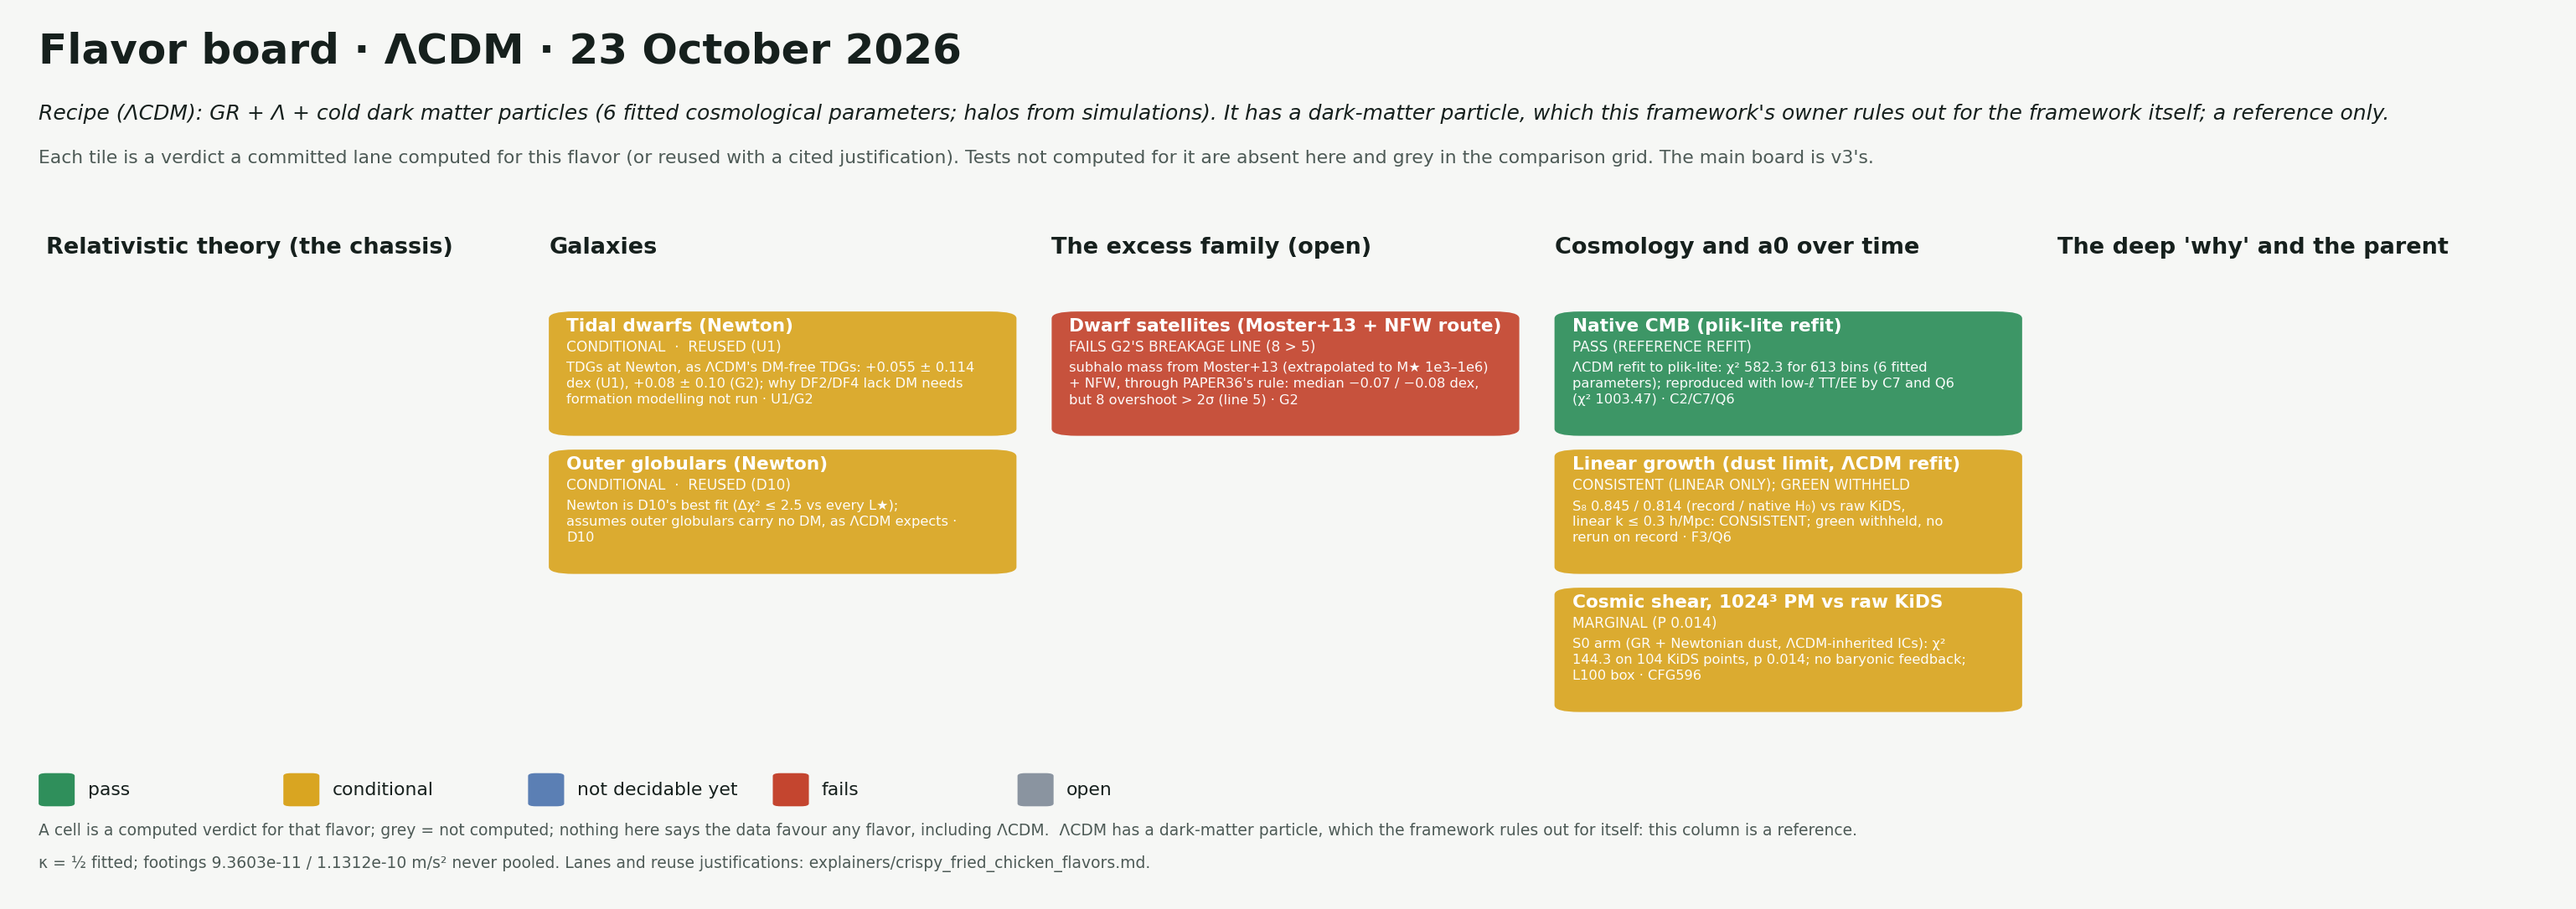
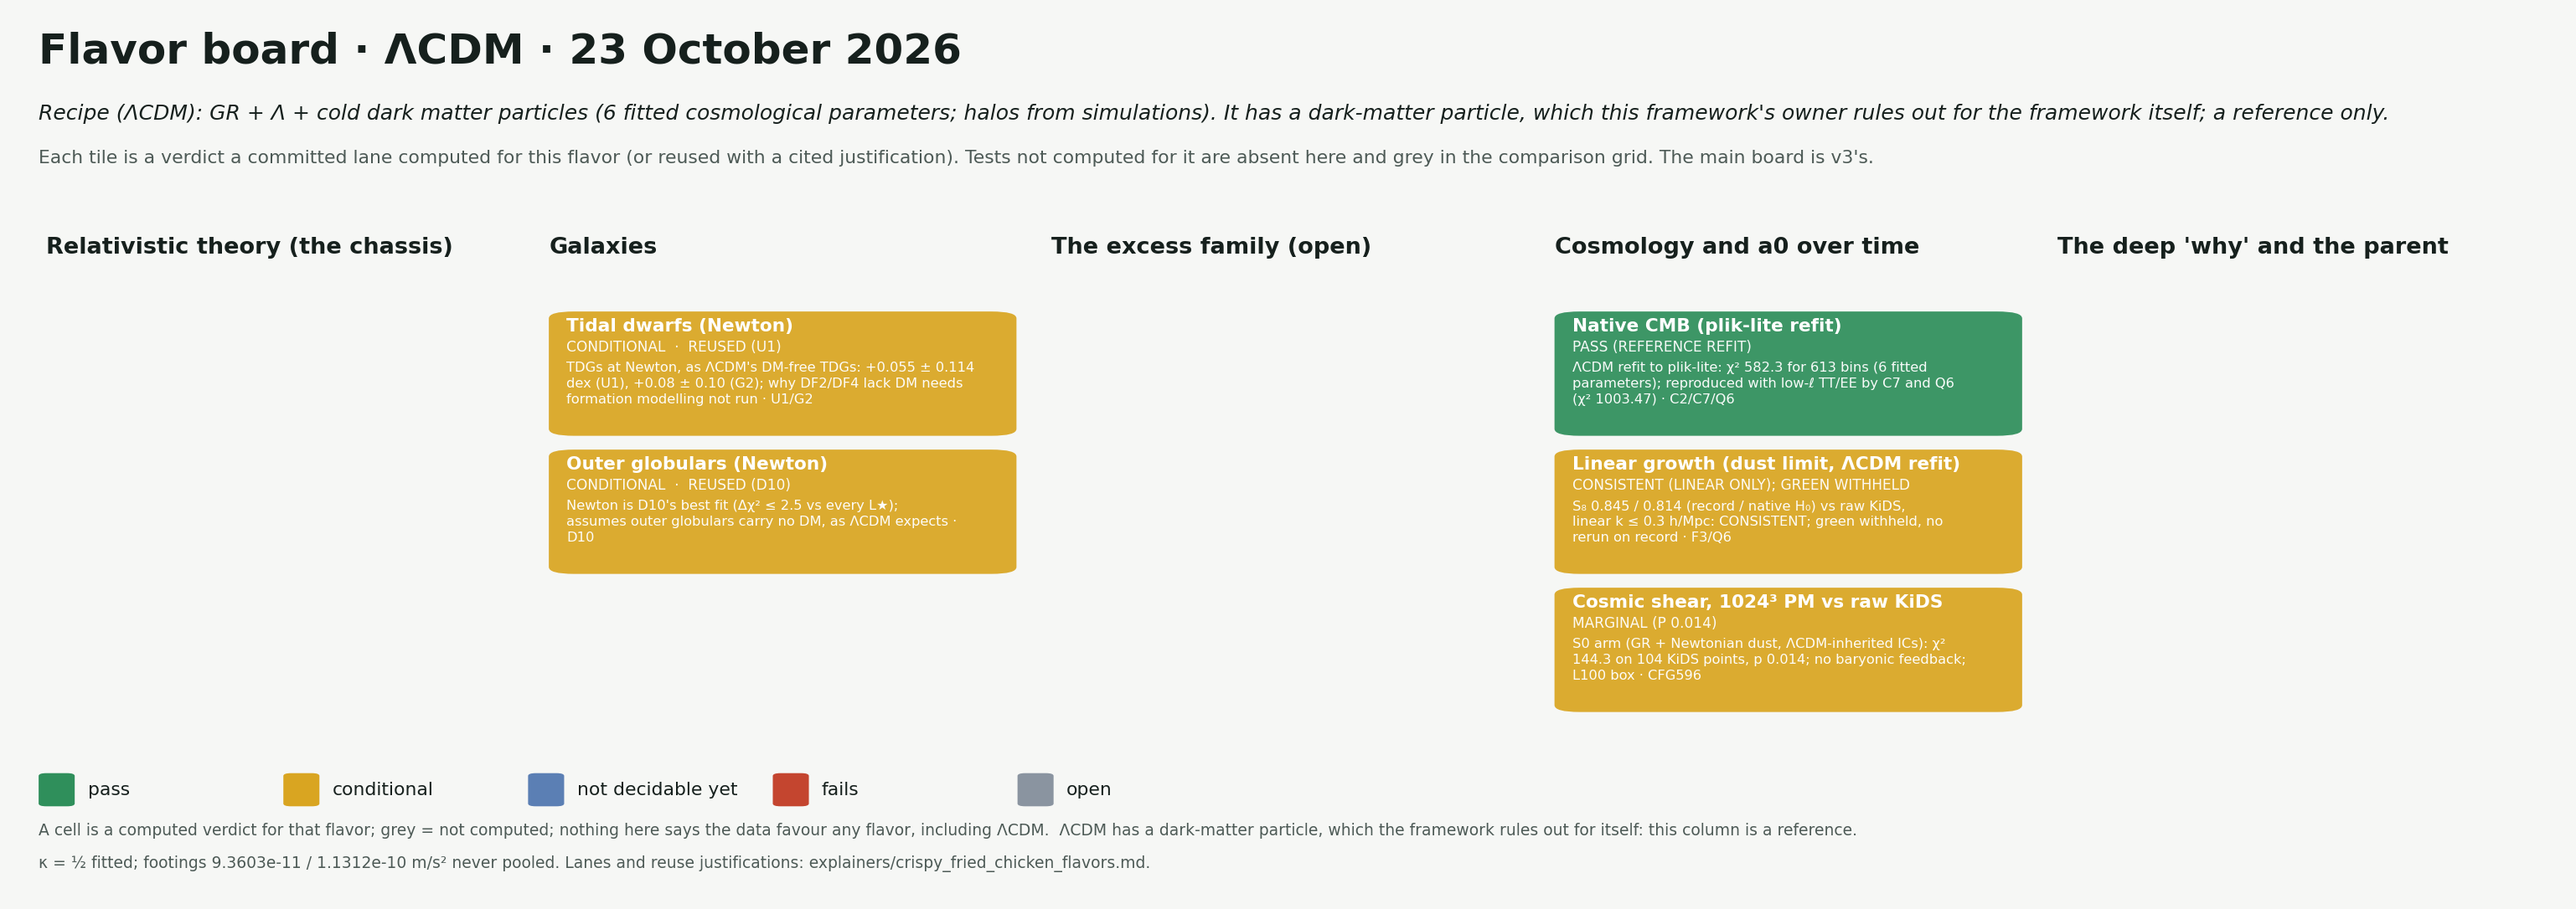
Flavor boards: coordinator override - LCDM dwarf satellites now GREY. G2's Moster+NFW route is PAPER36 eq. 1 (M_dark = M_ph + f_ex(1 - f_b) M_NFW, G2 README L45), the framework's phantom plus part of an NFW halo scored under the framework's law, not LCDM's prediction (Newtonian dynamics in a tidally

Changed region(s): [[0.4059, 0.3343, 0.5932, 0.4862]]

diff --git a/explainers/make_flavor_boards.py b/explainers/make_flavor_boards.py
@@ -103,7 +103,21 @@ LCDM_GREY_ROWS = {"Rotation curves (SPARC RAR)", "Local a0 from MeerKAT", "Galax
                   "MW outer slope (Gaia)", "Central ellipticals (SLUGGS)", "High-z on halo-free inputs",
                   "CRISTAL z~5 / ALESS 122.1", "Coma ultra-diffuse galaxies", "Cluster cores (eRASS1 × KiDS)",
                   "Isolated-galaxy lensing, inner", "Isolated-galaxy lensing, all radii", "Red (early-type) lenses",
-                  "ALMA U4 (6 Nov), GS4 (28 Nov)", "a0(z): native band vs a0 ~ H(z)", "Why kappa = 1/2"}
+                  "ALMA U4 (6 Nov), GS4 (28 Nov)", "a0(z): native band vs a0 ~ H(z)", "Why kappa = 1/2",
+                  # G2's Moster+NFW route is PAPER36 eq. 1 (M_dark = M_ph + f_ex(1 - f_b) M_NFW, G2 README L45) scored
+                  # under the framework's law; ΛCDM's own satellite prediction (Newtonian dynamics in a tidally evolved
+                  # subhalo) was never computed
+                  "Dwarf satellites (MW / M31)"}
+# Lanes allowed to carry a ΛCDM (or GR) arm, with the file:line where that arm is stated. Any other lane registered for
+# 'lcdm' is refused; a ΛCDM cell may reuse only the Newtonian limit, never a framework-law flavor.
+LCDM_ARMS = {
+    "C2": "covariant_push_2026_10_22/C2_aest_cosmology/README.md:L172 (ΛCDM refit to plik-lite)",
+    "C7": "covariant_push_2026_10_22/C7_aest_class/README.md:L161 (the same ΛCDM refit, pristine CLASS)",
+    "Q6": "rebuild_2026_10_22/Q6_v3_class/README.md:L21, L131 (ΛCDM refit; DUST reproduces ΛCDM)",
+    "F3": "rebuild_2026_10_22/F3_growth_audit/README.md:L25, L75 (GR + dust on the ΛCDM refit)",
+    "CFG596": "campaign_fresh_gravity/CFG596_lean_pm_1024/README.md:L116-L121, L141 (S0 arm: GR + Newtonian dust, "
+              "ΛCDM-inherited ICs and background)",
+}
 
 
 def row_of(name):
@@ -151,7 +165,7 @@ L("D7d", {"canonical"}, DP + "D7d_screened_q2/README.md:L1-L6 (the stiffened DSF
 L("D6", {"canonical"}, DP + "D6_u_mechanism/README.md:L1-L8")
 L("P1", {"canonical"}, R + "P1_dwarf_chemistry/README.md:L1-L6 (E6's catchment supply)")
 L("G1", {"canonical"}, TV3 + ":L67 (the old engine's growth excess)")
-L("G2", {"canonical", "lcdm"}, R + "G2_preinfall_retention/README.md:L1-L23 (PAPER36's rule; L91 ΛCDM-processed route)")
+L("G2", {"canonical"}, R + "G2_preinfall_retention/README.md:L1-L23 (PAPER36's rule)")
 L("CFG596", {"canonical", "lcdm"}, CF + "CFG596_lean_pm_1024/README.md:L116-L142 (F arm = settling rules; S0 arm = "
   "GR + Newtonian dust with ΛCDM-inherited ICs and background)")
 L("F1", {"v3", "canonical"}, R + "F1_cluster_cores/README.md:L59-L75 (addendum: the record's settled c* = 0.40)")
@@ -241,7 +255,6 @@ V("F1", "v3", "Cluster cores (eRASS1 × KiDS)", "FAIL", TV3 + ":L66")
 V("C2", "lcdm", "Native CMB", "PASS", CP + "C2_aest_cosmology/README.md:L172")
 V("F3", "lcdm", "Linear growth", "PASS", R + "F3_growth_audit/README.md:L8, L75")
 V("CFG596", "lcdm", "Cosmic shear, 1024³ PM vs raw KiDS", "COND", CF + "CFG596_lean_pm_1024/README.md:L131, L141-L142")
-V("G2", "lcdm", "Dwarf satellites (MW / M31)", "FAIL", R + "G2_preinfall_retention/README.md:L20-L23, L91")
 V("U1", "newton", "Tidal dwarfs, NGC 1052-DF2/DF4", "PASS", R + "U1_v3_dust_content/README.md:L135")
 V("D10", "newton", "Outer globular clusters", "COND", DP + "D10_native_Lstar/README.md:L18, L21")
 
@@ -471,9 +484,6 @@ CELLS = [
     C("lcdm", 3, "Cosmic shear, 1024³ PM vs raw KiDS", "COND",
       "S0 arm (GR + Newtonian dust, ΛCDM-inherited ICs): χ² 144.3 on 104 KiDS points, p 0.014; no baryonic feedback; "
       "L100 box", ["CFG596"], lab="marginal (p 0.014)"),
-    C("lcdm", 2, "Dwarf satellites (Moster+13 + NFW route)", "FAIL",
-      "subhalo mass from Moster+13 (extrapolated to M★ 1e3–1e6) + NFW, through PAPER36's rule: median −0.07 / −0.08 "
-      "dex, but 8 overshoot > 2σ (line 5)", ["G2"], lab="fails G2's breakage line (8 > 5)"),
     C("lcdm", 1, "Tidal dwarfs (Newton)", "COND",
       "TDGs at Newton, as ΛCDM's DM-free TDGs: +0.055 ± 0.114 dex (U1), +0.08 ± 0.10 (G2); why DF2/DF4 lack DM needs "
       "formation modelling not run", ["U1", "G2"], comp="newton"),
@@ -488,8 +498,9 @@ def all_cells(cells):
     return v3_cells() + cells
 
 
-def check(cells, reuse=None, verified=None, lanes=None, verdicts=None):
+def check(cells, reuse=None, verified=None, lanes=None, verdicts=None, arms=None):
     reuse = REUSE if reuse is None else reuse
+    arms = LCDM_ARMS if arms is None else arms
     verified = VERIFIED_GREEN_F if verified is None else verified
     lanes = LANES if lanes is None else lanes
     verdicts = VERDICTS if verdicts is None else verdicts
@@ -498,6 +509,9 @@ def check(cells, reuse=None, verified=None, lanes=None, verdicts=None):
     if main:
         errs.append(f"the main v3 board's own guard fails: {main[0]}")
     v3_main = {t["name"]: (None if t["st"] == "STALE" else t["st"]) for t in msb.TILES}
+    for ln, rec in lanes.items():
+        if "lcdm" in rec["flavors"] and not FILE_LINE.search(arms.get(ln, "")):
+            errs.append(f"lane {ln} registered for ΛCDM without a cited ΛCDM/GR arm (LCDM_ARMS)")
     seen = set()
     for c in all_cells(cells):
         f, row, st = c["flavor"], c["row"], c["st"]
@@ -546,6 +560,9 @@ def check(cells, reuse=None, verified=None, lanes=None, verdicts=None):
                 errs.append(f"green without verified evidence for {f}: {row}")
         if f == "plain_mond" and row in COSMO_ROWS:
             errs.append(f"plain MOND has no cosmology, so this row must stay grey: {row}")
+        if f == "lcdm" and comp not in {"lcdm"} | PSEUDO:
+            errs.append(f"ΛCDM cell reused from a framework-law lane ({comp}, {ev}); only the Newtonian limit may be "
+                        f"reused: {row}")
         if f == "lcdm" and row in LCDM_GREY_ROWS:
             errs.append(f"ΛCDM row needs modelling the record never ran; it must stay grey: {row}")
     for (f, row), vg in verified.items():
@@ -732,17 +749,28 @@ def broken_cases():
     def b14(c, r, v, l, d):  # an OPEN cell where the lane's verdict is a fail
         _cell(c, "v4", "Cluster cores (eRASS1 × KiDS)")["st"] = "OPEN"
 
-    def b15(c, r, v, l, d):  # ΛCDM coloured on a row that needs galaxy-formation modelling (with a fake REUSE)
-        c.append(C("lcdm", 1, "Local a0 from MeerKAT", "PASS", "halo fits", ["P4"], comp="v3"))
-        r[("lcdm", "Local a0 from MeerKAT")] = ("v3", "P4", "P4 README L17")
-        v[("lcdm", "Local a0 from MeerKAT")] = ("P4", "6c0249a8bc", "rerun")
-        d[("P4", "v3", "Local a0 from MeerKAT")] = ("PASS", "P4 README L17")
+    def b15(c, r, v, l, d):  # ΛCDM coloured on a galaxy-formation row by a lane with a ΛCDM arm (verdict faked)
+        c.append(C("lcdm", 1, "Local a0 from MeerKAT", "PASS", "halo fits", ["C2"]))
+        v[("lcdm", "Local a0 from MeerKAT")] = ("C2", "5e93769089", "rerun")
+        d[("C2", "lcdm", "Local a0 from MeerKAT")] = ("PASS", "C2 README L172")
 
     def b16(c, r, v, l, d):  # a ΛCDM green with no verification (the withheld linear growth turned green)
         _cell(c, "lcdm", "Linear growth")["st"] = "PASS"
 
     def b17(c, r, v, l, d):  # a verdict citation with no file:line
         d[("H2", "v4", "Cluster cores (eRASS1 × KiDS)")] = ("FAIL", "somewhere")
+
+    def b18(c, r, v, l, d):  # ΛCDM satellites from G2's PAPER36 route (framework law), with a cited REUSE entry
+        c.append(C("lcdm", 2, "Dwarf satellites (Moster+13 + NFW route)", "FAIL", "PAPER36 eq. 1", ["G2"],
+                   comp="canonical"))
+        r[("lcdm", "Dwarf satellites (MW / M31)")] = ("canonical", "G2", "G2 README L91")
+
+    def b19(c, r, v, l, d):  # ΛCDM reuses a framework-law verdict on a row not forced grey (only the new guard bites)
+        c.append(C("lcdm", 2, "Dwarf cold supply (chemistry)", "COND", "borrowed", ["E6"], comp="canonical"))
+        r[("lcdm", "Dwarf cold supply (chemistry)")] = ("canonical", "E6", "E6 README L1")
+
+    def b20(c, r, v, l, d):  # G2 registered as computing ΛCDM directly, with no cited ΛCDM arm
+        l["G2"] = dict(flavors={"canonical", "lcdm"}, where="G2 README L91")
 
     return [("plain-MOND reuse with its REUSE entry removed", b1), ("REUSE justification without file:line", b2),
             ("v4 borrows a v3 verdict without REUSE", b3), ("v4 borrows a v3 lane as if it computed v4", b4),
@@ -752,7 +780,9 @@ def broken_cases():
             ("plain MOND given a cosmology verdict", b11), ("lane registry lacks the flavor", b12),
             ("canonical green the earlier board never drew", b13), ("OPEN where the lane says fails", b14),
             ("ΛCDM coloured on a galaxy-formation row", b15), ("ΛCDM green with no verification", b16),
-            ("verdict citation without file:line", b17)]
+            ("verdict citation without file:line", b17),
+            ("ΛCDM satellites from G2's framework-law route", b18),
+            ("ΛCDM reuse of a framework-law verdict", b19), ("lane registered for ΛCDM without a ΛCDM arm", b20)]
 
 
 def selftest():

diff --git a/explainers/crispy_fried_chicken_flavors.md b/explainers/crispy_fried_chicken_flavors.md
@@ -26,7 +26,7 @@ Boards: [v4](img/status_board_v4.png) · [canonical rules](img/status_board_cano
 - **Greens need verification.** A green needs a `VERIFIED_GREEN_F` entry: the lane, its result commit, and a rerun or an independent reproduction. The canonical rules are the exception: they keep the greens that the 23 October afternoon board already drew.
 - **Some rows stay grey by rule.** Plain MOND has no cosmology, so its cosmology rows stay grey. ΛCDM rows that would need galaxy-formation, feedback or halo modelling the record never ran stay grey; they are never filled from literature claims.
 - **The v3 column is the main board.** The main generator's own check must still pass.
-- **Checks.** `--selftest` runs 17 broken cases, and every one is caught. They cover reuse, cross-flavor borrowing, unjustified ΛCDM cells and greens without evidence. `--mutate` strips one reuse justification, and the checks must fail.
+- **Checks.** `--selftest` runs 20 broken cases, and every one is caught. They cover reuse, cross-flavor borrowing, unjustified ΛCDM cells (including a ΛCDM cell reused from a framework-law lane) and greens without evidence. `--mutate` strips one reuse justification, and the checks must fail.
 
 ## Counts
 
@@ -38,7 +38,7 @@ The grid has 50 rows.
 | v4 | 1 | 1 | 6 | 0 | 1 | 41 |
 | canonical rules | 6 | 5 | 9 | 7 | 8 | 15 |
 | plain MOND | 2 | 3 | 8 | 4 | 2 | 31 |
-| ΛCDM | 1 | 4 | 1 | 0 | 0 | 44 |
+| ΛCDM | 1 | 4 | 0 | 0 | 0 | 45 |
 
 ## v4
 
@@ -133,7 +133,6 @@ The grid has 50 rows.
 | Native CMB (plik-lite refit) | 🟩 pass — pass (reference refit) | ΛCDM refit to plik-lite: χ² 582.3 for 613 bins (6 fitted parameters); reproduced with low-ℓ TT/EE by C7 and Q6 (χ² 1003.47) | C2, C7, Q6 |
 | Linear growth (dust limit, ΛCDM refit) | 🟨 conditional — consistent (linear only); green withheld | S₈ 0.845 / 0.814 (record / native H₀) vs raw KiDS, linear k ≤ 0.3 h/Mpc: CONSISTENT; green withheld, no rerun on record | F3, Q6 |
 | Cosmic shear, 1024³ PM vs raw KiDS | 🟨 conditional — marginal (p 0.014) | S0 arm (GR + Newtonian dust, ΛCDM-inherited ICs): χ² 144.3 on 104 KiDS points, p 0.014; no baryonic feedback; L100 box | CFG596 |
-| Dwarf satellites (Moster+13 + NFW route) | 🟥 fails — fails G2's breakage line (8 > 5) | subhalo mass from Moster+13 (extrapolated to M★ 1e3–1e6) + NFW, through PAPER36's rule: median −0.07 / −0.08 dex, but 8 overshoot > 2σ (line 5) | G2 |
 | Tidal dwarfs (Newton) | 🟨 conditional | TDGs at Newton, as ΛCDM's DM-free TDGs: +0.055 ± 0.114 dex (U1), +0.08 ± 0.10 (G2); why DF2/DF4 lack DM needs formation modelling not run | U1, G2 (reused from newton: U1) |
 | Outer globulars (Newton) | 🟨 conditional | Newton is D10's best fit (Δχ² ≤ 2.5 vs every L★); assumes outer globulars carry no DM, as ΛCDM expects | D10 (reused from newton: D10) |
 
@@ -179,7 +178,8 @@ The grid has 50 rows.
   - CFG516 used an NFW halo for the MW's K_z only as an ungraded reference: K_z,1.1 75.2 against the measured 66.4 ± 2.2 (CFG516 README L71-L75).
   - Older ΛCDM controls exist on other samples and statistics: CFG23 (KiDS NFW halos, χ² 173.7), CFG67 (KiDS early/late split, χ² 6.5 / 7), CFG79 / CFG84 (X-ray ellipticals) and CFG86 (SLACS). They are not mapped onto these rows, because their data are not the rows' data.
 - **ΛCDM, tidal dwarfs and outer globulars.** These are drawn **conditional**. ΛCDM's TDGs and outer globulars carry no dark matter, so its prediction is the Newtonian row the record computed (U1 and G2 for the TDGs, D10 for the globulars). Two things are assumed: that the globulars carry no dark matter, and that DF2/DF4 lost theirs. Showing either needs formation modelling the record never ran.
-- **ΛCDM, dwarf satellites.** This is G2's ΛCDM-processed route: the Moster+13 SHMR, extrapolated to M★ ≈ 1e3–1e6, plus NFW, through PAPER36's retention rule. It closes the median (−0.07 / −0.08 dex) but overshoots 8 systems against G2's frozen breakage line of 5. It is drawn as fails, the lane's own class.
+- **ΛCDM, dwarf satellites: grey (coordinator review).** G2's Moster+NFW route is PAPER36 eq. 1, M_dark = M_ph + f_ex(1 − f_b) M_NFW (G2 README L45): the framework's phantom plus a fraction of an NFW halo, scored under the framework's law. It is not ΛCDM's prediction, which would be Newtonian dynamics in a tidally evolved subhalo, and the record never computed that. A ΛCDM cell may now reuse only the Newtonian limit, and only lanes with a cited ΛCDM/GR arm (`LCDM_ARMS`: C2, C7, Q6, F3, CFG596) may be registered for ΛCDM.
+- **Canonical rules, CFG960.** It is counted under the canonical rules, as the coordinator classed it; N0 labels it the SCT-M engine (domains, conversion of cold energy into phantom bodies, census baryons; AUDIT L52-L53, L116).
 
 ---
 
